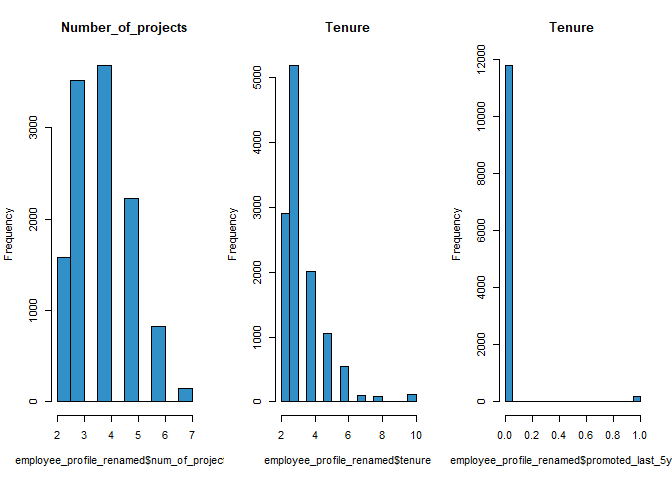
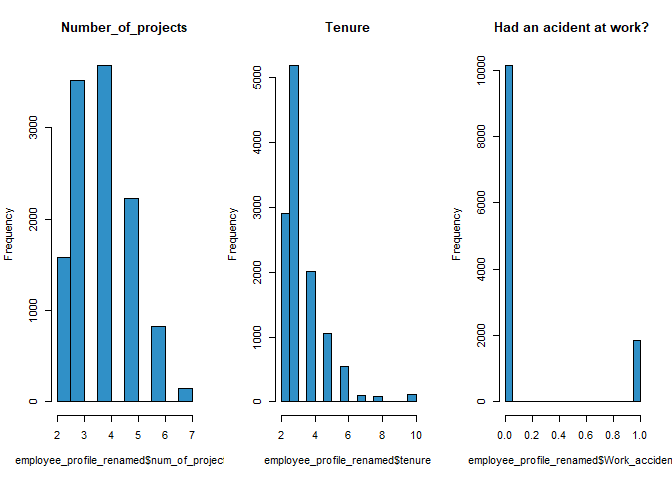
updated notebook

diff --git a/Turnover_Report.md b/Turnover_Report.md
@@ -275,31 +275,32 @@ colnames(employee_profile_data)
     ##  [7] "left"                  "promotion_last_5years" "sales"                
     ## [10] "salary"
 
-From the above, the data set has 14,999 rows and 10 columns. Most of the
-columns hold numeric data, with only two containing text data, and in
-this case, categorical.
+The dataset provides information like satisfaction level, results
+obtained from last evaluation, number of projects an employee was
+involved in for the year, how long the employee has been in the
+organization, if they have been involved in any accident at work, if
+they are still with the organization or have left, etc. Each row is a
+record representing an employee.
 
-The data provides information like satisfaction level, results obtained
-from last evaluation, number of projects an employee was involved in for
-the year, how long the employee has been in the organization, if they
-have been involved in any accident at work, if they are still with the
-organization or have left, etc. Each row is a record representing an
-employee.
+From the above, the dataset has 14,999 rows and 10 columns. While 8 of
+the columns appear to hold numeric data, with only two containing text
+(categorical) data, a closer look reveals that the
+`promotion_last_5years` and `left` columns actually hold numeric
+representations of Boolean data in which, 0 indicates ‘False’ and 1
+indicates ‘True’. So, a value of 0 in the `left` column means that an
+employee is still with the company while 1 means that the employee has
+left the company. The same goes for the `promotion_5years` column. 0
+means that an employee has not been promoted in the last 5 years and 1
+means they have been promoted. So, we can, as well, say that these two
+columns contain categorical data but, encoding them with numbers helps
+us to examine their relationship with columns holding numeric data.
 
-Some columns, although descriptive, could be better if shorter, e.g, the
-`time_spend_company` column. The name, `sales`, is inappropriate for the
-information contained in the column it represents. The column shows the
-department an employee belongs to rather than sales details.
+The `time_spend_company` column could be made shorter and more
+descriptive. The name, `sales`, is inappropriate for the information
+contained in the column it represents. The column shows the department
+an employee belongs to, rather than sales details.
 
-With 14,999 records, the data set is enough for this analysis. The
-essence of the project is to look at historical, non-Qeug data, so the
-data is also appropriate for the task. Furthermore, it has been stripped
-of all personally Identifiable information (PII) like employee names,
-email address, residential address, phone number, etc., and it is cited.
-
-Safe to say our Data ROCCS!
-
-## Process**:**
+## Process
 
 In this phase, I cleaned and transformed my data in preparation for
 analysis, and documented each action in a change log.
@@ -426,8 +427,9 @@ There are no multiple variants of any of the values in these columns.
 
 #### Dealing with Outliers
 
-Here, I used a box plot to check the distribution of all columns with
-numeric values. The box plot will also reveal if there are outliers.
+Here, I used boxplots to check the distribution of all columns with
+numeric values. The boxplots will also reveal columns that have
+outliers.
 
 ``` r
 hr_hist <- employee_profile_renamed %>%
@@ -459,9 +461,23 @@ out-of-range data. Based on this, we keep the data as is, and we report
 the average for that column with the median, from the
 five-number-summary concept, rather than the mean.
 
+As we move on from this stage, we can conclude that:
+
+-   Our clean dataset now has 11,991 rows and 10 columns.
+
+-   With 14,999 records, the dataset is enough for this analysis. The
+    essence of the project is to look at historical data that is also
+    external to the company, **Qeug**, so the data is also appropriate
+    for the task. Furthermore, it has been stripped of all personally
+    Identifiable information (PII) like employee names, email address,
+    residential address, phone number, etc., and it is cited.
+
+Safe to say our Data ROCCS!
+
 ## Analyse
 
-Let’s explore the data for some insights and answer Tracy’s questions
+In this stage, I explored the data for insights and answered Tracy’s
+questions.
 
 ``` r
 skim_without_charts(employee_profile_renamed)
@@ -516,10 +532,8 @@ We can see from here that:
 -   In a month, an employee works for about 200 hours on average.
 
 -   Employees spend at least, 2 years at the company and 3 years on
-    average. However, there are a few employees who have stuck with the
+    average However, there are a few employees who have stuck with the
     company for as many as 10 years.
-
-    Let’s investigate further.
 
 ``` r
 hr_hist <- employee_profile_renamed %>%
@@ -540,47 +554,27 @@ hist(employee_profile_renamed$mean_monthly_hours,col="#3090C7", main = "Average_
 ``` r
 hist(employee_profile_renamed$num_of_projects,col="#3090C7", main = "Number_of_projects") 
 hist(employee_profile_renamed$tenure,col="#3090C7", main = "Tenure")
-hist(employee_profile_renamed$promoted_last_5years, col="#3090C7", main = "Tenure")
+hist(employee_profile_renamed$Work_accident,col="#3090C7", main = "Had an acident at work?")
 ```
 
 ![](Turnover_Report_files/figure-gfm/unnamed-chunk-13-2.png)<!-- -->
 
 ``` r
-#hist(employee_profile_renamed$tenure,col="#3090C7", main = "Tenure")
-#hist(employee_profile_renamed$left,col="#3090C7", main = "exited the company")
-glimpse(employee_profile_renamed)
+hist(employee_profile_renamed$promoted_last_5years, col="#3090C7", main = "Promotion Status in the Last 5 years")
+hist(employee_profile_renamed$left,col="#3090C7", main = "Exited the company")
 ```
 
-    ## Rows: 11,991
-    ## Columns: 10
-    ## $ satisfaction_level   <dbl> 0.38, 0.80, 0.11, 0.72, 0.37, 0.41, 0.10, 0.92, 0…
-    ## $ last_evaluation      <dbl> 0.53, 0.86, 0.88, 0.87, 0.52, 0.50, 0.77, 0.85, 1…
-    ## $ num_of_projects      <dbl> 2, 5, 7, 5, 2, 2, 6, 5, 5, 2, 2, 6, 4, 2, 2, 2, 2…
-    ## $ mean_monthly_hours   <dbl> 157, 262, 272, 223, 159, 153, 247, 259, 224, 142,…
-    ## $ tenure               <dbl> 3, 6, 4, 5, 3, 3, 4, 5, 5, 3, 3, 4, 5, 3, 3, 3, 3…
-    ## $ Work_accident        <dbl> 0, 0, 0, 0, 0, 0, 0, 0, 0, 0, 0, 0, 0, 0, 0, 0, 0…
-    ## $ left                 <dbl> 1, 1, 1, 1, 1, 1, 1, 1, 1, 1, 1, 1, 1, 1, 1, 1, 1…
-    ## $ promoted_last_5years <dbl> 0, 0, 0, 0, 0, 0, 0, 0, 0, 0, 0, 0, 0, 0, 0, 0, 0…
-    ## $ department           <chr> "sales", "sales", "sales", "sales", "sales", "sal…
-    ## $ salary               <chr> "low", "medium", "medium", "low", "low", "low", "…
+![](Turnover_Report_files/figure-gfm/unnamed-chunk-13-3.png)<!-- -->
 
-The major highlight in these charts are:
+-   Most of the columns show multimodal distributions that is,
+    distributions with more than one peak or mode.
 
--   Satisfaction level, last evaluation, Average monthly hours show a
-    near balanced presence of all datapoints in these column and,
-    infact, the avarge_monthly_hours column could pass for a normal
-    distribution.
+-   More than half of the employees have never had an accident at work.
 
--   
+-   Most of the employees have not been promoted in the last 5 years
+    however, majority have remained in the company compared to those who
+    have left.
 
-``` r
-# ggplot(data = employee_profile_renamed) +
-  # geom_boxplot(mapping = aes(x = satisfaction_level, color = 'red'))
-```
+    But are these insights enough to tell the entire story?
 
-### 
-
-Let’s now answer Tracy’s questions and look at other insights obtainable
-from the dataset.
-
--   What is the turnover status from the dataset being examined?
+    I proceeded into deep dive analysis.
